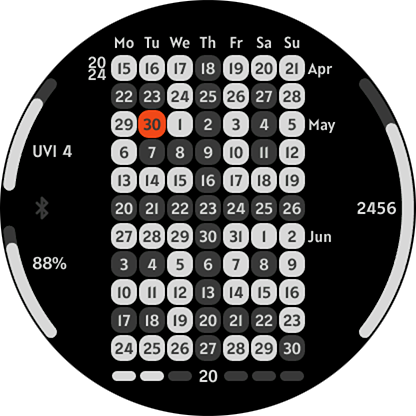
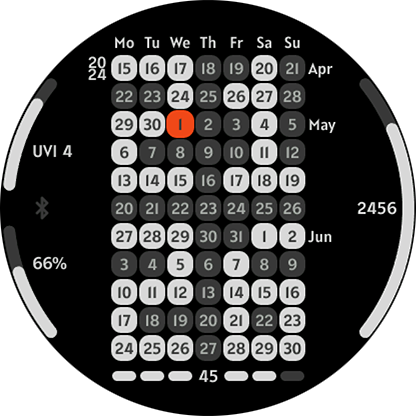
add description

diff --git a/11-weeks/README.md b/11-weeks/README.md
@@ -1,18 +1,35 @@
-# Nothing Dial
+# 11 weeks
 Watchface for Amazfit GTR Mini
 
-![demo](./demo.png)
+![demo](./demo2.png)
 
 ## Features
 
-**Main features**
-- inspired by [CMF by Nothing Watch default watchface](https://intl.cmf.tech/pages/watch-pro)
-- time is indicated by minute hand and 2 dots (orange one for hours, white one for seconds)
-- digital time too
-- date
-- step counter
-- uv index
-- status icon when watch is disconnected from phone
+This watchface is inspired by one of my favourite Pebble watchface '11 Weeks', which can be found in the Rebble Store [here](https://store-beta.rebble.io/app/5659ab0bc3a3a5e072000081) and on [GitHub](https://github.com/programus/pebble-watchface-11weeks).
+
+The design integrates a time display and a calendar into a single grid.
+
+This layout provides a comprehensive view of time and personal metrics in a compact and visually appealing format.
+
+**Calendar:**
+- Spans 11 weeks:
+  - Includes 2 past weeks
+  - The current week
+  - 8 upcoming weeks
+- Displays multiple indicators including:
+  - Day of the week
+  - Month
+  - Year
+  - Highlight for the current day
+- Has all indications (week day, months, years, currrent day highlight)
+
+**Time:**
+- Hours and minutes are displayed in a pixel font overlaying the calendar grid.
+- Seconds are shown below the main display using regular digits and a progress bar.
+
+**Additional Features:**
+- Progress bars for step count, UV index, and battery level.
+- Connection status indicator, which lights up in red when the phone is disconnected.
 
 **Model compatibility:** Amazfit GTR Mini (round, 416 x 416 pixels)
 
@@ -20,7 +37,7 @@ Watchface for Amazfit GTR Mini
 
 **Tap-zones:** No
 
-**Language:** English
+**Language:** English/Russian
 
 ## Download ⏬
 

diff --git a/README.md b/README.md
@@ -43,3 +43,4 @@ To install a watchface to your smartwatch:
 | ![](./celeste/demo.png)     | Celeste    	| ✅ Done             	|
 | ![](./nothing-dial/demo.png)| Nothing Dial| ✅ Done             	|
 | ![](./spin-2/demo.png)      | Spin 2      | ✅ Done             	|
+| ![](./11-weeks/demo.png)    | 11 weeks    | ✅ Done             	|
